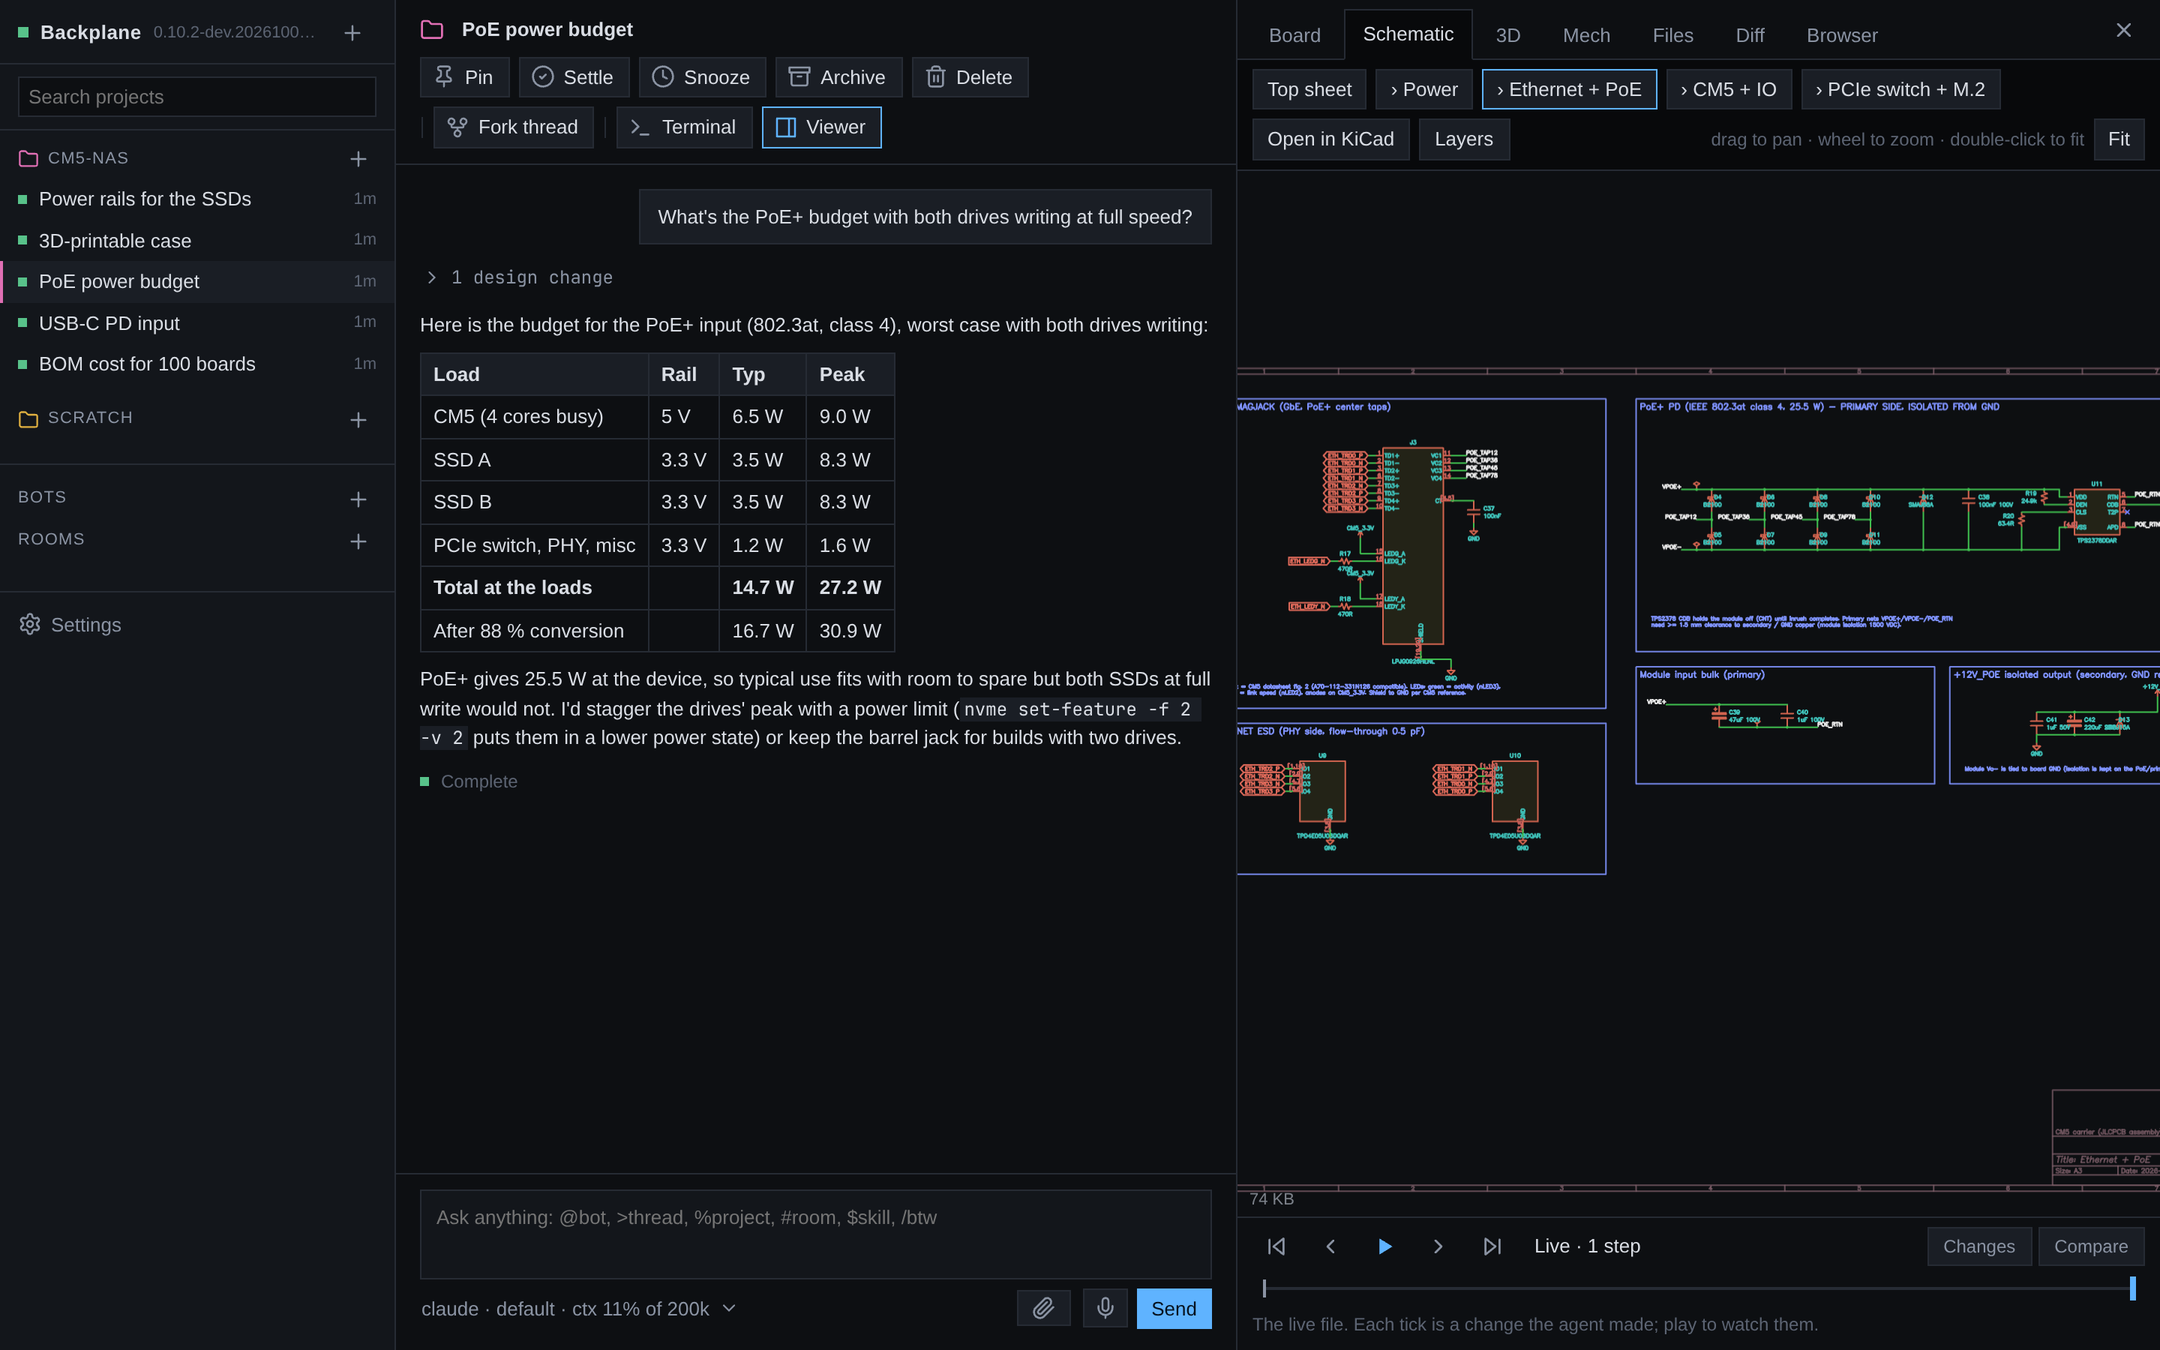
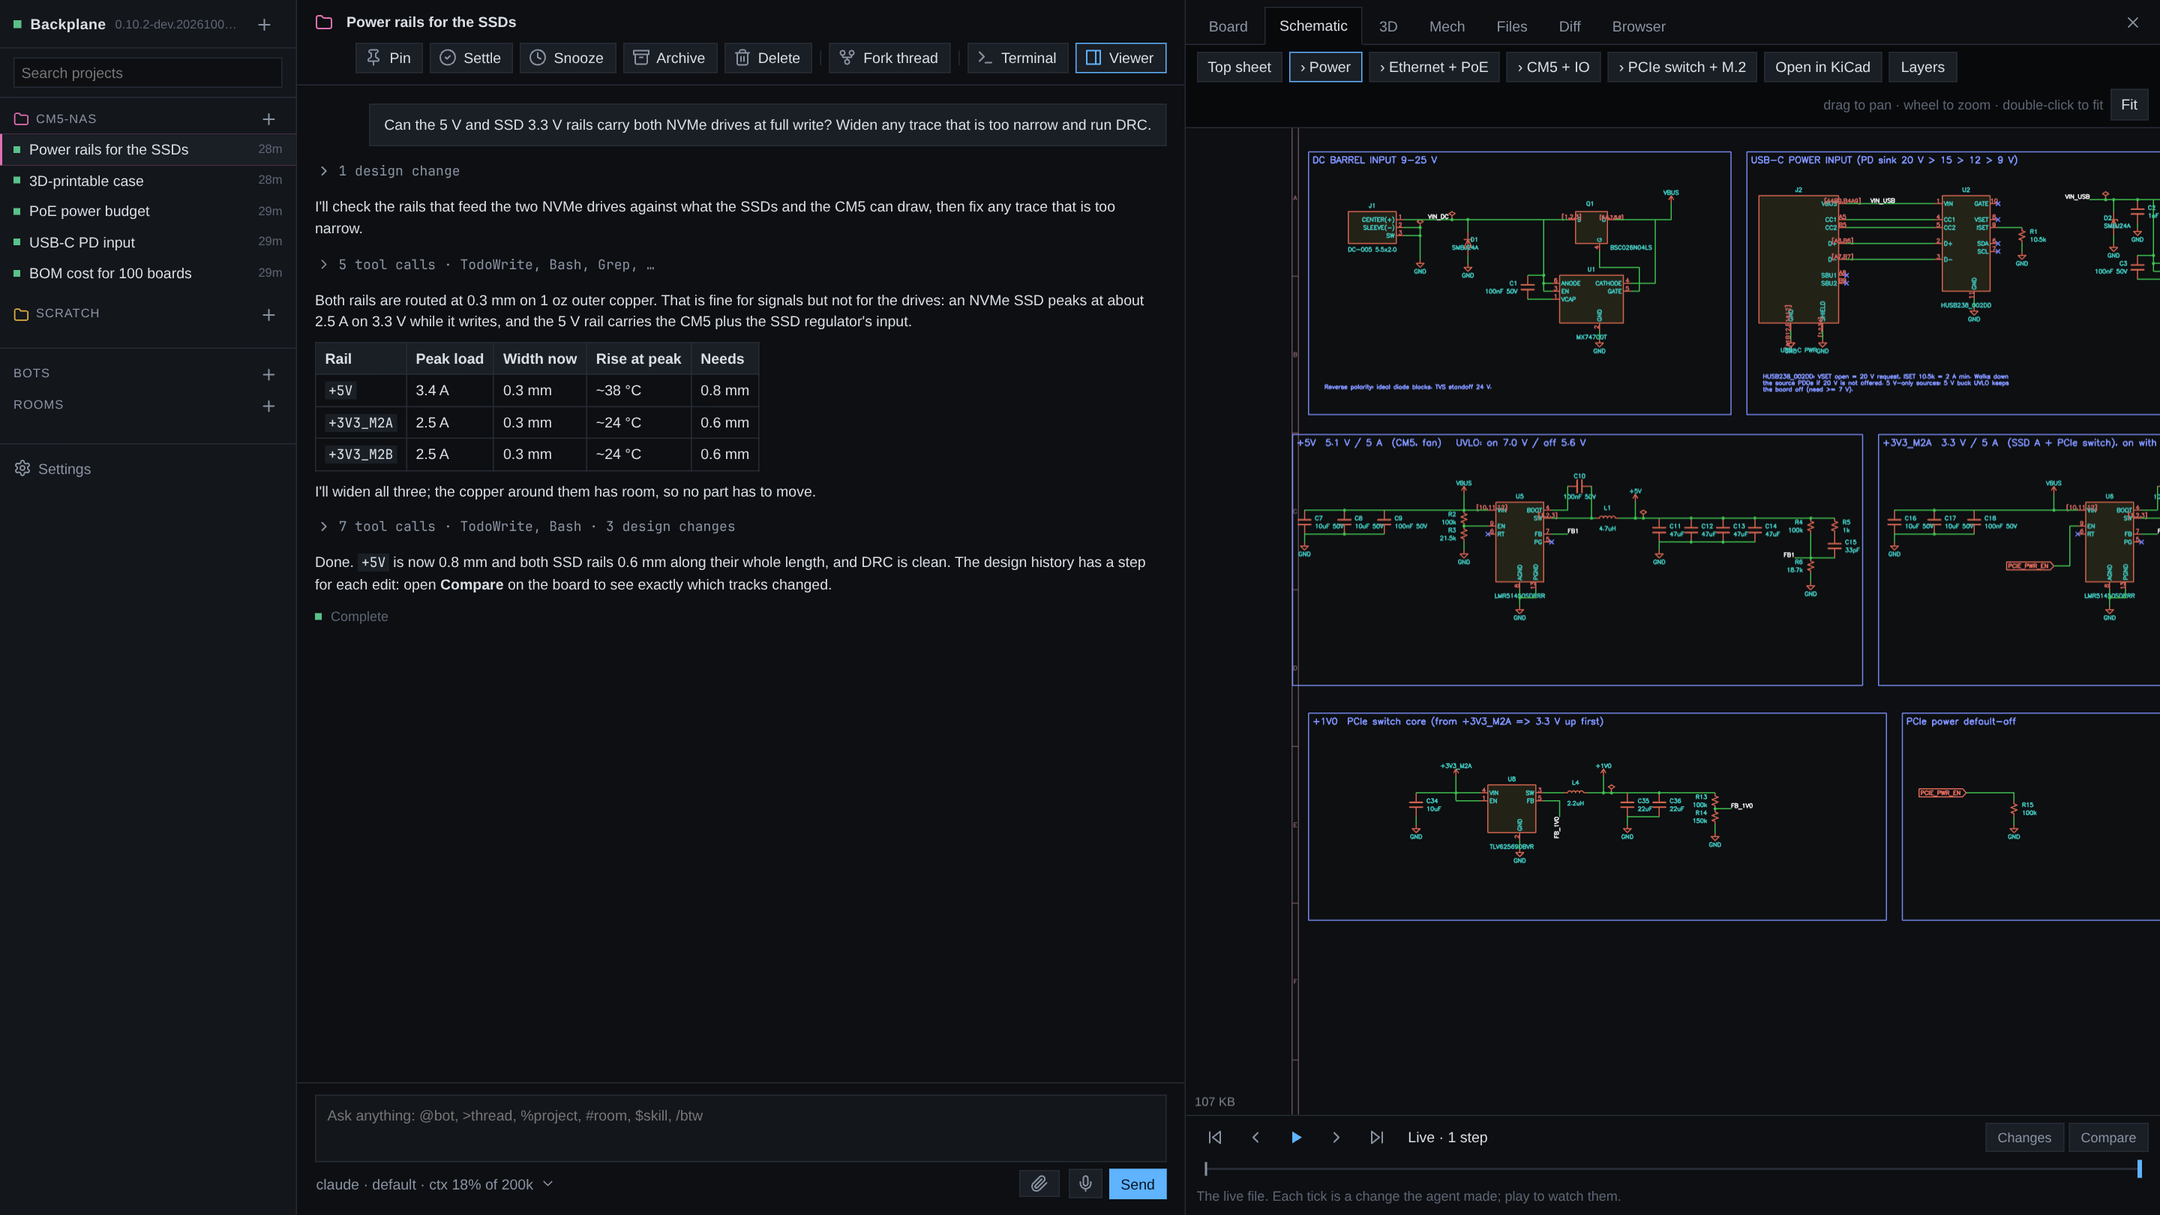
README: the viewers open on a readable schematic sheet

diff --git a/README.md b/README.md
@@ -24,7 +24,7 @@ The hub runs on your machine. The browser and the native Android and iOS apps re
 
 **Viewers that follow the files.** Board, Schematic (with its sheets), 3D (the board with its parts), Mech, Files, Diff and Browser, all next to the thread. They draw only finished saves and fade in only what changed. Click a pad, track, symbol or pin to see its net, reference, value and footprint, and mention it in chat.
 
-![A thread beside the board it is changing](docs/media/web-board.png)
+![The power sheet of the schematic beside the thread](docs/media/web-schematic.png)
 
 **Mechanical parts.** Agents model enclosures and brackets in FreeCAD, headless. The Mech tab turns any STEP in 3D, with the project's other parts beside it, and draws standard views on request.
 
@@ -36,9 +36,9 @@ The hub runs on your machine. The browser and the native Android and iOS apps re
 
 **Threads per project.** Each thread is an agent session with its own model and provider. Tool calls fold into one line, todo lists and tables render as they should, and threads settle on their own when you stop touching them. Fork a thread, rename it, pin it, or hand it to another.
 
-| Schematic sheets | Datasheets and files |
+| The board | Datasheets and files |
 |---|---|
-| ![](docs/media/web-schematic.png) | ![](docs/media/web-files.png) |
+| ![](docs/media/web-board.png) | ![](docs/media/web-files.png) |
 
 **A native window.** The desktop app is the same client drawn by Bend itself, with its own board and 3D renderer.
 
